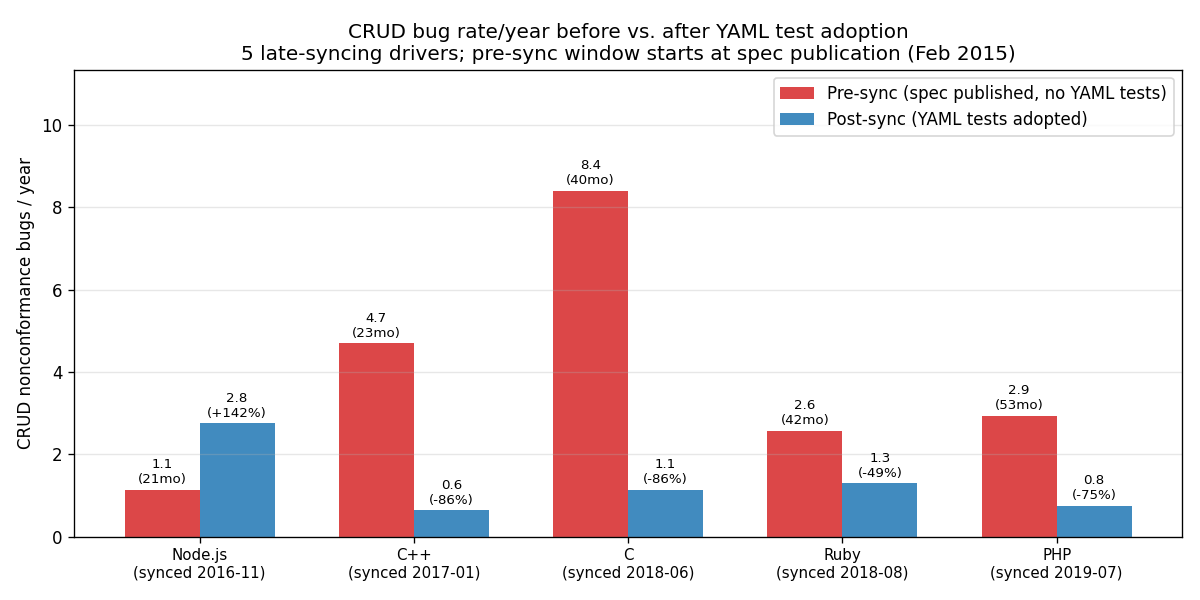
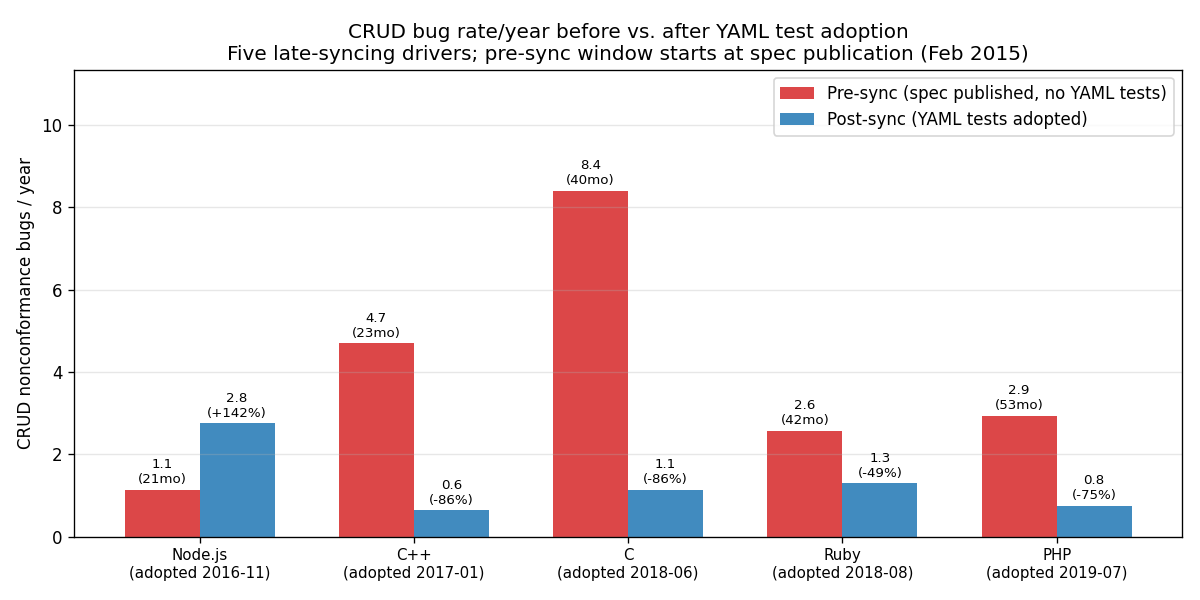
Chart: spell out "Five", say "adopted" instead of "synced"

diff --git a/analysis/scripts/crud_analysis.py b/analysis/scripts/crud_analysis.py
@@ -227,11 +227,11 @@ def chart_late5(panel_by_driver):
 
     ax.set_xticks(x)
     ax.set_xticklabels(
-        [f"{LATE_LABELS[d]}\n(synced {sync_dates[d]})" for d in drivers_ordered],
+        [f"{LATE_LABELS[d]}\n(adopted {sync_dates[d]})" for d in drivers_ordered],
         fontsize=9)
     ax.set_ylabel("CRUD nonconformance bugs / year")
     ax.set_title("CRUD bug rate/year before vs. after YAML test adoption\n"
-                 "5 late-syncing drivers; pre-sync window starts at spec publication (Feb 2015)")
+                 "Five late-syncing drivers; pre-sync window starts at spec publication (Feb 2015)")
     ax.legend()
     ax.grid(True, alpha=0.3, axis="y")
     plt.tight_layout()